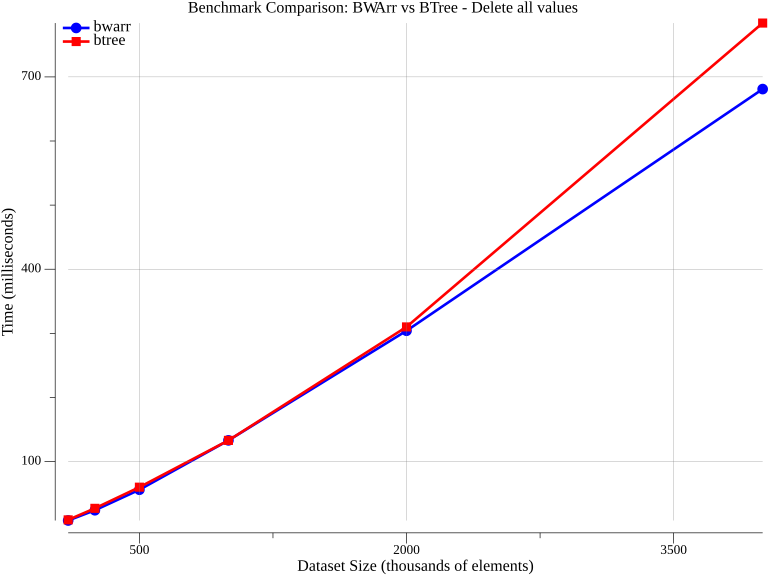
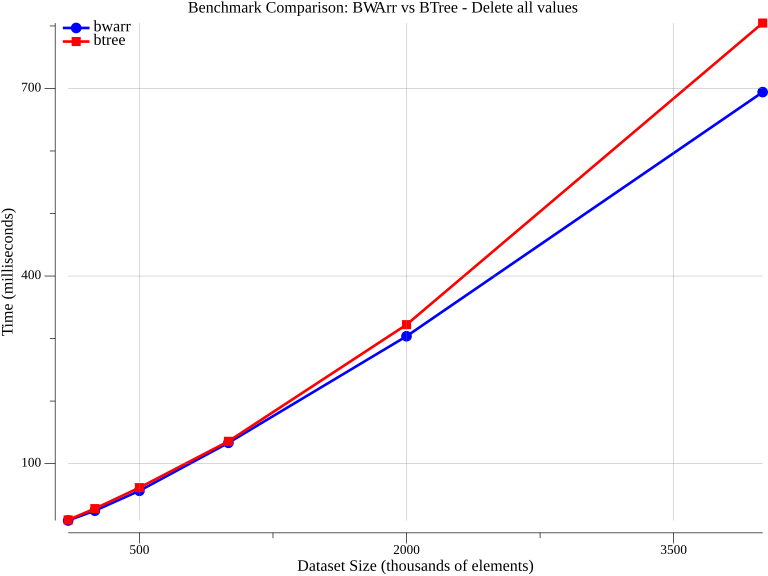
Correct sub-milliseconds measurements

diff --git a/cmd/benchgraph/graph.go b/cmd/benchgraph/graph.go
@@ -4,6 +4,7 @@ import (
 	"fmt"
 	"image/color"
 	"sort"
+	"time"
 
 	"gonum.org/v1/plot"
 	"gonum.org/v1/plot/plotter"
@@ -29,6 +30,13 @@ const (
 	bytesToKB       = 1024.0
 )
 
+// durationToMillis converts a duration to milliseconds as a float.
+// Duration.Milliseconds() truncates to an integer, which turns sub-millisecond
+// results (e.g. iteration over 100K elements) into 0 on the graph.
+func durationToMillis(d time.Duration) float64 {
+	return float64(d.Nanoseconds()) / float64(time.Millisecond)
+}
+
 // generateTimeGraph creates a PNG graph comparing benchmark time results
 func generateTimeGraph(comparison benchmark.Comparison, outputPath string) error {
 	// Create new plot
@@ -43,9 +51,9 @@ func generateTimeGraph(comparison benchmark.Comparison, outputPath string) error
 	btreePoints := make(plotter.XYs, 0, len(comparison.Runs))
 
 	for _, run := range comparison.Runs {
-		// Convert time.Duration to milliseconds
-		bwarrMillis := float64(run.BwarrResult.ExecTimePerOp.Milliseconds())
-		btreeMillis := float64(run.BTreeResult.ExecTimePerOp.Milliseconds())
+		// Convert time.Duration to milliseconds (float, no truncation)
+		bwarrMillis := durationToMillis(run.BwarrResult.ExecTimePerOp)
+		btreeMillis := durationToMillis(run.BTreeResult.ExecTimePerOp)
 		// Convert ElementsToApply to thousands for X-axis
 		xValue := float64(run.ElementsToApply) / thousandDivisor
 

diff --git a/cmd/benchgraph/main_test.go b/cmd/benchgraph/main_test.go
@@ -1,6 +1,10 @@
 package main
 
-import "testing"
+import (
+	"math"
+	"testing"
+	"time"
+)
 
 func TestSanitizeFilename(t *testing.T) {
 	tests := []struct {
@@ -50,5 +54,25 @@ func TestSanitizeFilename_EdgeCases(t *testing.T) {
 				t.Errorf("sanitizeFilename(%q) = %q, want %q", tt.input, result, tt.expected)
 			}
 		})
+	}
+}
+
+func TestDurationToMillis(t *testing.T) {
+	tests := []struct {
+		d        time.Duration
+		expected float64
+	}{
+		{0, 0},
+		{time.Millisecond, 1},
+		{812039 * time.Nanosecond, 0.812039}, // sub-millisecond must not become 0
+		{1500 * time.Microsecond, 1.5},
+		{2 * time.Second, 2000},
+	}
+
+	for _, tt := range tests {
+		got := durationToMillis(tt.d)
+		if math.Abs(got-tt.expected) > 1e-9 {
+			t.Errorf("durationToMillis(%v) = %v, want %v", tt.d, got, tt.expected)
+		}
 	}
 }
